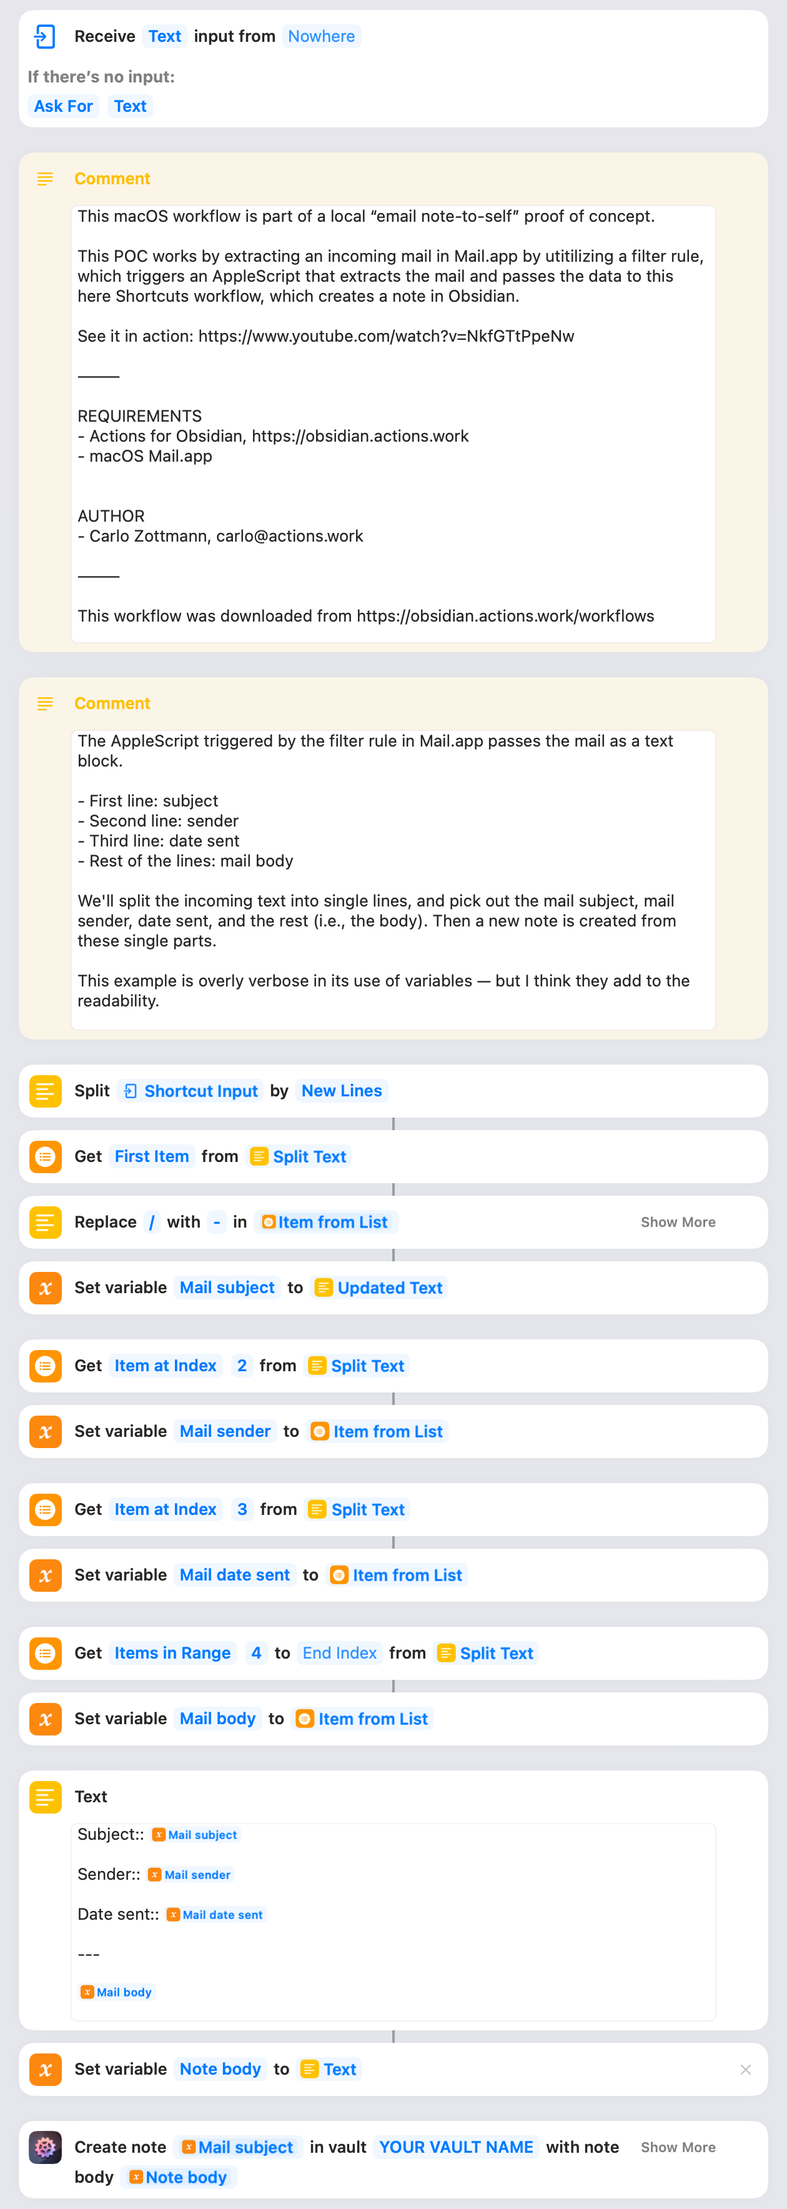
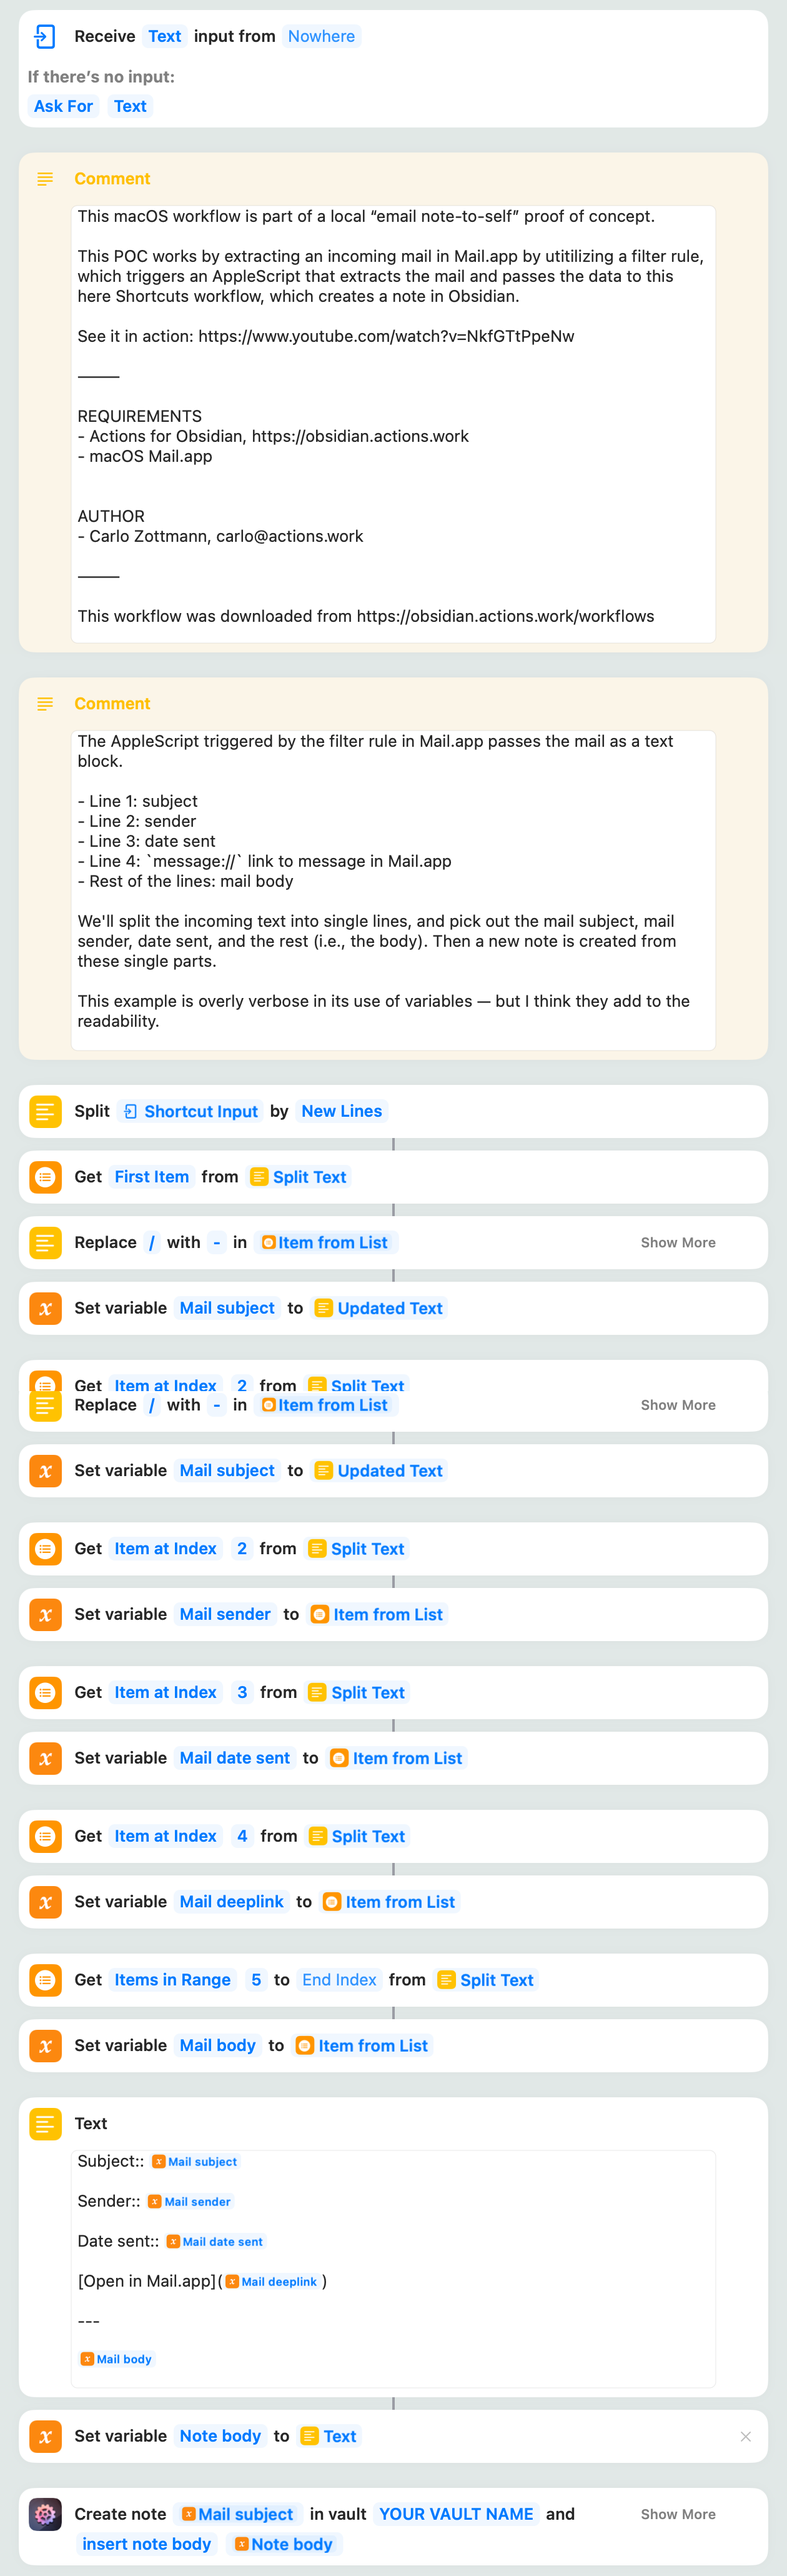
[NEW] Adds link back to original message in Mail.app to the note

Changed region(s): [[0.0, 0.0, 0.9905, 0.9955], [0.619, 0.3422, 0.8667, 0.3733]]

diff --git a/Mail to Obsidian note/README.md b/Mail to Obsidian note/README.md
@@ -2,7 +2,7 @@
 
 This helper consists of two parts: an AppleScript and a Shortcuts workflow. The AppleScript is a Mail rule that triggers the Shortcuts workflow. The Shortcuts workflow takes the email and turns it into a note in your Obsidian vault.
 
-Read more about it and watch the tutorial video: [▶ How to email a "Note to Self" to your Obsidian vault - Actions for Obsidian: Knowledge Base](https://support.actions.work/article/97-how-to-email-a-note-to-self-to-your-obsidian-vault?preview=64949b2249ac94654ebfd052)
+Read more about it and watch the tutorial video: [▶ How to email a "Note to Self" to your Obsidian vault - ActionsDotWork Forum](https://forum.actions.work/t/how-to-email-a-note-to-self-to-your-obsidian-vault/23)
 
 [Screenshot of the workflow](<Mail to Obsidian note.png>)
 
@@ -29,6 +29,10 @@ This workflow is part of the [**Actions for Obsidian** Workflow Library](https:/
 &nbsp;
 
 ## Workflow history / Change log
+
+### 2023-10-24
+
+- Adds link back to original message in Mail.app to the note.
 
 ### 2023-06-22
 
